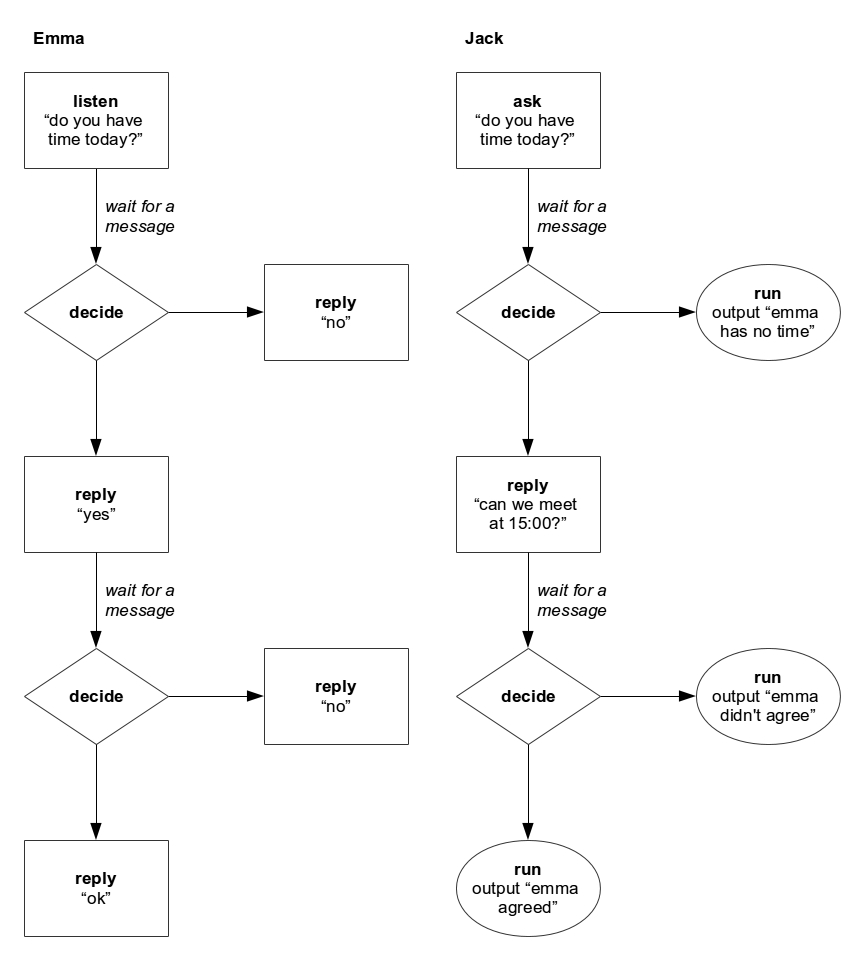
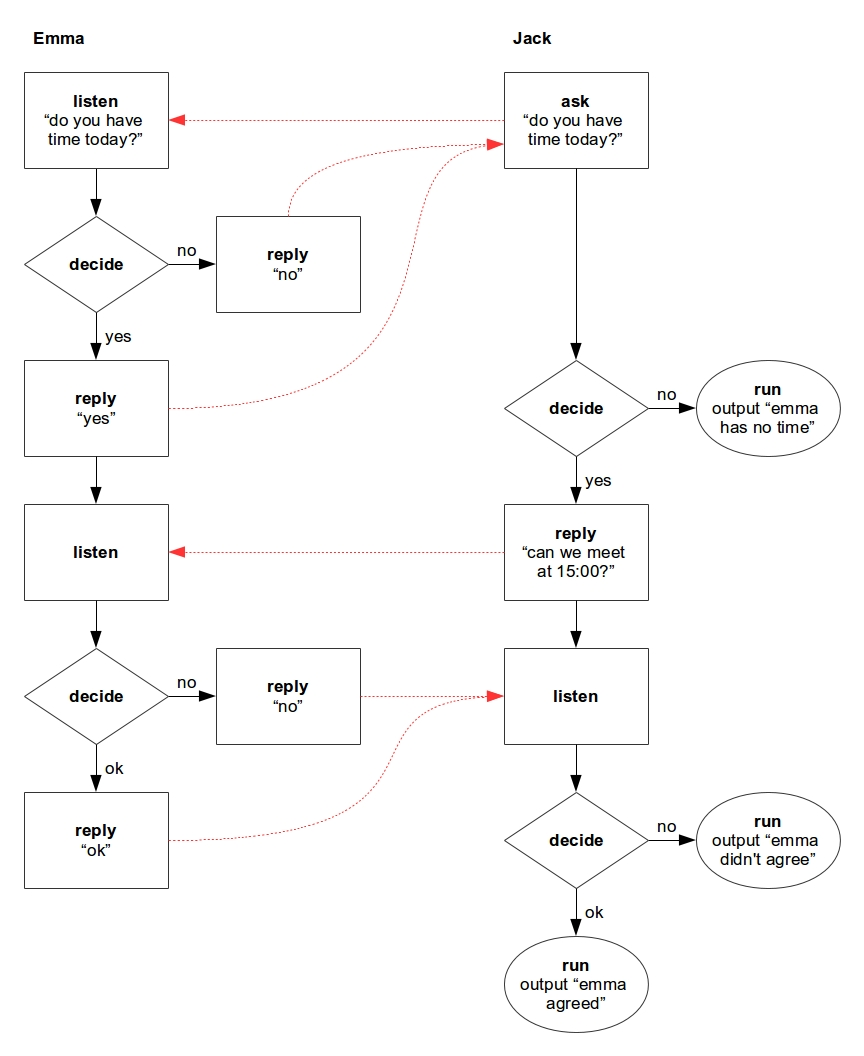
Flow diagrams of examples updated

diff --git a/examples/plan_a_meeting.js b/examples/plan_a_meeting.js
@@ -31,6 +31,7 @@ function no () {
 emma.listen('do you have time today?')
     .decide(decideIfAvailable, {
       yes: babble.reply(yes)
+              .listen()
               .decide(decideToAgree, {
                 ok: babble.reply(ok),
                 no: babble.reply(no)
@@ -47,7 +48,7 @@ function noTime () {
 }
 
 function agreesToMeet (response) {
-  return (response == 'ok') ? 'ok': 'notOk';
+  return (response == 'ok') ? 'ok': 'no';
 }
 
 function agreement () {
@@ -61,9 +62,10 @@ function noAgreement () {
 jack.ask('emma', 'do you have time today?')
     .decide({
       yes: babble.reply(askToMeet)
+              .listen()
               .decide(agreesToMeet, {
                 ok: babble.run(agreement),
-                notOk: babble.run(noAgreement)
+                no: babble.run(noAgreement)
               }),
       no: babble.run(noTime)
     });

diff --git a/README.md b/README.md
@@ -159,6 +159,7 @@ function no () {
 emma.listen('do you have time today?')
     .decide(decideIfAvailable, {
       yes: babble.reply(yes)
+              .listen()
               .decide(decideToAgree, {
                 ok: babble.reply(ok),
                 no: babble.reply(no)
@@ -175,7 +176,7 @@ function noTime () {
 }
 
 function agreesToMeet (response) {
-  return (response == 'ok') ? 'ok': 'notOk';
+  return (response == 'ok') ? 'ok': 'no';
 }
 
 function agreement () {
@@ -189,9 +190,10 @@ function noAgreement () {
 jack.ask('emma', 'do you have time today?')
     .decide({
       yes: babble.reply(askToMeet)
+              .listen()
               .decide(agreesToMeet, {
                 ok: babble.run(agreement),
-                notOk: babble.run(noAgreement)
+                no: babble.run(noAgreement)
               }),
       no: babble.run(noTime)
     });
